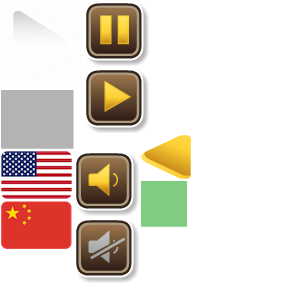
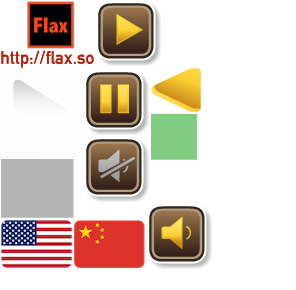
Update the published files

diff --git a/publish/game.min.js b/publish/game.min.js
@@ -2183,10 +2183,10 @@ bubbles_png:"res/gameBubbles.png",fruits:"res/gameFruitsLink.plist",fruits_png:"
 res_customClick=[res.sceneNav,res.sceneNav_png,res.customClick,res.customClick_png],res_button=[res.sceneNav,res.sceneNav_png,res.uiButton,res.uiButton_png],res_progress=[res.sceneNav,res.sceneNav_png,res.animation,res.animation_png,res.uiProgress,res.uiProgress_png],res_uiBmFont=[res.sceneNav,res.sceneNav_png,res.uiPanel,res.uiPanel_png,res.uiBMFont,res.uiBMFont_png],res_uiInput=[res.sceneNav,res.sceneNav_png,res.uiPanel,res.uiPanel_png,res.uiInput,res.uiInput_png],res_uiPanel=[res.sceneNav,res.sceneNav_png,
 res.uiPanel,res.uiPanel_png],res_effect=[res.sceneNav,res.sceneNav_png,res.effect,res.effect_png],res_scrollingBG=[res.sceneNav,res.sceneNav_png,res.scrollingBG,res.scrollingBG_png],res_tiledImage=[res.sceneNav,res.sceneNav_png,res.tiledImage,res.tiledImage_png],res_poppingStars=[res.sceneNav,res.sceneNav_png,res.poppingStars,res.poppingStars_png],res_bubbles=[res.sceneNav,res.sceneNav_png,res.bubbles,res.bubbles_png],res_fruitsLink=[res.sceneNav,res.sceneNav_png,res.fruits,res.fruits_png],res_shooters=
 [res.sceneNav,res.sceneNav_png,res.scrollingBG,res.scrollingBG_png,res.shooters,res.shooters_png,music.gun0,music.gun1],res_physics=[res.sceneNav,res.sceneNav_png,res.physics,res.physics_png],res_timberQiang=[res.sceneNav,res.sceneNav_png,music.chop,music.fail,music.bg,res.timberQiang,res.timberQiang_png];var BaseScene=cc.Scene.extend({onEnter:function(){this._super();flax.createBGLayer(this,cc.color(51,51,51));var a=flax.assetsManager.createDisplay(res.sceneNav,"SceneNav",{parent:this,zIndex:9999});flax.inputManager.addListener(a.leftBtn,this._showPrevScene,InputType.click,this);flax.inputManager.addListener(a.rightBtn,this._showNextScene,InputType.click,this);flax.inputManager.addListener(this,this._onKeyDown,InputType.keyPress);var b=Global.scenesList[currentSceneIndex];a.navTxt.text=currentSceneIndex+
-1+"/"+Global.scenesList.length;a.titleTxt.text=flax.getLanguageStr(b.name)},_showPrevScene:function(){currentSceneIndex--;if(0>currentSceneIndex)currentSceneIndex=0;else{var a=Global.scenesList[currentSceneIndex].name;cc.sys.isNative&&"physics"==a?this._showPrevScene():flax.replaceScene(a)}},_showNextScene:function(){currentSceneIndex++;if(currentSceneIndex>Global.scenesList.length-1)currentSceneIndex=Global.scenesList.length-1;else{var a=Global.scenesList[currentSceneIndex].name;cc.sys.isNative&&
-"physics"==a?this._showNextScene():flax.replaceScene(a)}},_onKeyDown:function(a){"left"==a?this._showPrevScene():"right"==a&&this._showNextScene()}}),TopBar=flax.MovieClip.extend({onEnter:function(){this._super();this.pauseBtn.selected=!0;this.soundBtn.selected=!flax.getSoundEnabled();flax.inputManager.addListener(this.pauseBtn,this._onPauseChange,InputType.click,this);flax.inputManager.addListener(this.soundBtn,this._onSoundChange,InputType.click,this);flax.inputManager.addListener(this.zhBtn,this._updateLanguage);
-flax.inputManager.addListener(this.enBtn,this._updateLanguage)},_onPauseChange:function(a,b){if(!this.pauseBtn.selected){cc.director.pause();var c=flax.assetsManager.createDisplay(res.sceneNav,"PauseCover",{parent:flax.currentScene,zIndex:99999});flax.inputManager.addMask(c);flax.inputManager.addListener(c.resumeBtn,function(){c.destroy();cc.director.resume();this.pauseBtn.selected=!0},InputType.click,this)}},_onSoundChange:function(a,b){flax.setSoundEnabled(!this.soundBtn.selected)},_updateLanguage:function(a,
-b){"zhBtn"==b.currentTarget.name?flax.updateLanguage("zh"):flax.updateLanguage("en");flax.refreshScene()}});var AnimationWithAnchor=BaseScene.extend({onEnter:function(){this._super();var a=flax.assetsManager.createDisplay(res.animation,"monkey_run",{parent:this,x:cc.visibleRect.center.x,y:cc.visibleRect.center.y});a.play();var b=flax.assetsManager.createDisplay(res.animation,"ui",{parent:this});b.fpsTxt.text="FPS: "+a.fps;flax.inputManager.addListener(a,function(){var c=a.fps+12;60<c&&(c=24);a.fps=c;b.fpsTxt.text="FPS: "+c})}});var SkeletonAndControl=BaseScene.extend({skeleton:null,ctrPanel:null,onEnter:function(){this._super();this.skeleton=flax.assetsManager.createDisplay(res.skeleton,"monkey",{parent:this,x:cc.visibleRect.center.x-100,y:cc.visibleRect.center.y});this.skeleton.autoPlayChildren=!0;this.skeleton.onFrameChanged.add(this._onFrameChanged,this);this.skeleton.onFrameLabel.add(this._onFrameLabel,this);this.skeleton.onAnimationOver.add(this._onAnimationOver,this);this.skeleton.onSequenceOver.add(this._onSequenceOver,
+1+"/"+Global.scenesList.length;a.titleTxt.text=flax.getLanguageStr(b.name);flax.inputManager.addListener(a.logoBtn,function(a,b){flax.goHomeUrl()})},_showPrevScene:function(){currentSceneIndex--;if(0>currentSceneIndex)currentSceneIndex=0;else{var a=Global.scenesList[currentSceneIndex].name;cc.sys.isNative&&"physics"==a?this._showPrevScene():flax.replaceScene(a)}},_showNextScene:function(){currentSceneIndex++;if(currentSceneIndex>Global.scenesList.length-1)currentSceneIndex=Global.scenesList.length-
+1;else{var a=Global.scenesList[currentSceneIndex].name;cc.sys.isNative&&"physics"==a?this._showNextScene():flax.replaceScene(a)}},_onKeyDown:function(a){"left"==a?this._showPrevScene():"right"==a&&this._showNextScene()}}),TopBar=flax.MovieClip.extend({onEnter:function(){this._super();this.pauseBtn.selected=!0;this.soundBtn.selected=!flax.getSoundEnabled();flax.inputManager.addListener(this.pauseBtn,this._onPauseChange,InputType.click,this);flax.inputManager.addListener(this.soundBtn,this._onSoundChange,
+InputType.click,this);flax.inputManager.addListener(this.zhBtn,this._updateLanguage);flax.inputManager.addListener(this.enBtn,this._updateLanguage)},_onPauseChange:function(a,b){if(!this.pauseBtn.selected){cc.director.pause();var c=flax.assetsManager.createDisplay(res.sceneNav,"PauseCover",{parent:flax.currentScene,zIndex:99999});flax.inputManager.addMask(c);flax.inputManager.addListener(c.resumeBtn,function(){c.destroy();cc.director.resume();this.pauseBtn.selected=!0},InputType.click,this)}},_onSoundChange:function(a,
+b){flax.setSoundEnabled(!this.soundBtn.selected)},_updateLanguage:function(a,b){"zhBtn"==b.currentTarget.name?flax.updateLanguage("zh"):flax.updateLanguage("en");flax.refreshScene()}});var AnimationWithAnchor=BaseScene.extend({onEnter:function(){this._super();var a=flax.assetsManager.createDisplay(res.animation,"monkey_run",{parent:this,x:cc.visibleRect.center.x,y:cc.visibleRect.center.y});a.play();var b=flax.assetsManager.createDisplay(res.animation,"ui",{parent:this});b.fpsTxt.text="FPS: "+a.fps;flax.inputManager.addListener(a,function(){var c=a.fps+12;60<c&&(c=24);a.fps=c;b.fpsTxt.text="FPS: "+c})}});var SkeletonAndControl=BaseScene.extend({skeleton:null,ctrPanel:null,onEnter:function(){this._super();this.skeleton=flax.assetsManager.createDisplay(res.skeleton,"monkey",{parent:this,x:cc.visibleRect.center.x-100,y:cc.visibleRect.center.y});this.skeleton.autoPlayChildren=!0;this.skeleton.onFrameChanged.add(this._onFrameChanged,this);this.skeleton.onFrameLabel.add(this._onFrameLabel,this);this.skeleton.onAnimationOver.add(this._onAnimationOver,this);this.skeleton.onSequenceOver.add(this._onSequenceOver,
 this);this.ctrPanel=flax.assetsManager.createDisplay(res.skeleton,"ControlPanel",{parent:this});for(var a=this.ctrPanel.getChildren(),b=0;b<a.length;b++){var c=a[b];flax.isButton(c)&&flax.inputManager.addListener(c,this._controlAnim,InputType.click,this)}this._onFrameChanged(0)},_controlAnim:function(a,b){var c=b.currentTarget;cc.log("Command: "+c.label.text);eval("this.skeleton."+c.label.text);this.skeleton.head&&this.skeleton.replaceChild("head","anotherHead")},_onFrameChanged:function(a){this.ctrPanel.infoTxt.text=
 "FPS: "+this.skeleton.fps+", currentFrame: "+a+", playing: "+this.skeleton.playing+"\ncurrentLabel: "+this.skeleton.currentLabel+", currentAnim: "+this.skeleton.currentAnim},_onFrameLabel:function(a){cc.log("Frame label: "+a)},_onAnimationOver:function(a){this._showMsg("Animation over!")},_onSequenceOver:function(a){cc.log("Sequence over!")},_showMsg:function(a){var b=flax.assetsManager.createDisplay(res.skeleton,"InfoAnim",{parent:this,x:140+400*Math.random(),y:300+500*Math.random()},!0);b.info.txt.text=
 a;b.autoDestroyWhenOver=!0;b.play()}});var UIButton=BaseScene.extend({onEnter:function(){this._super();var a=flax.assetsManager.createDisplay(res.uiButton,"ButtonPanel",{parent:this});a.simpleBtn2.setMouseEnabled(!1);a.labelBtn2.setMouseEnabled(!1);a.animBtn.playChildrenOnState=!0;a.animBtn.clickSound=music.chop;flax.inputManager.addListener(a.animBtn,function(){a.groupBtn2.selected=!0});a.groupBtn0.label.text=flax.getLanguageStr("Tab")+"0";a.groupBtn1.label.text=flax.getLanguageStr("Tab")+"1";a.groupBtn2.label.text=flax.getLanguageStr("Tab")+
